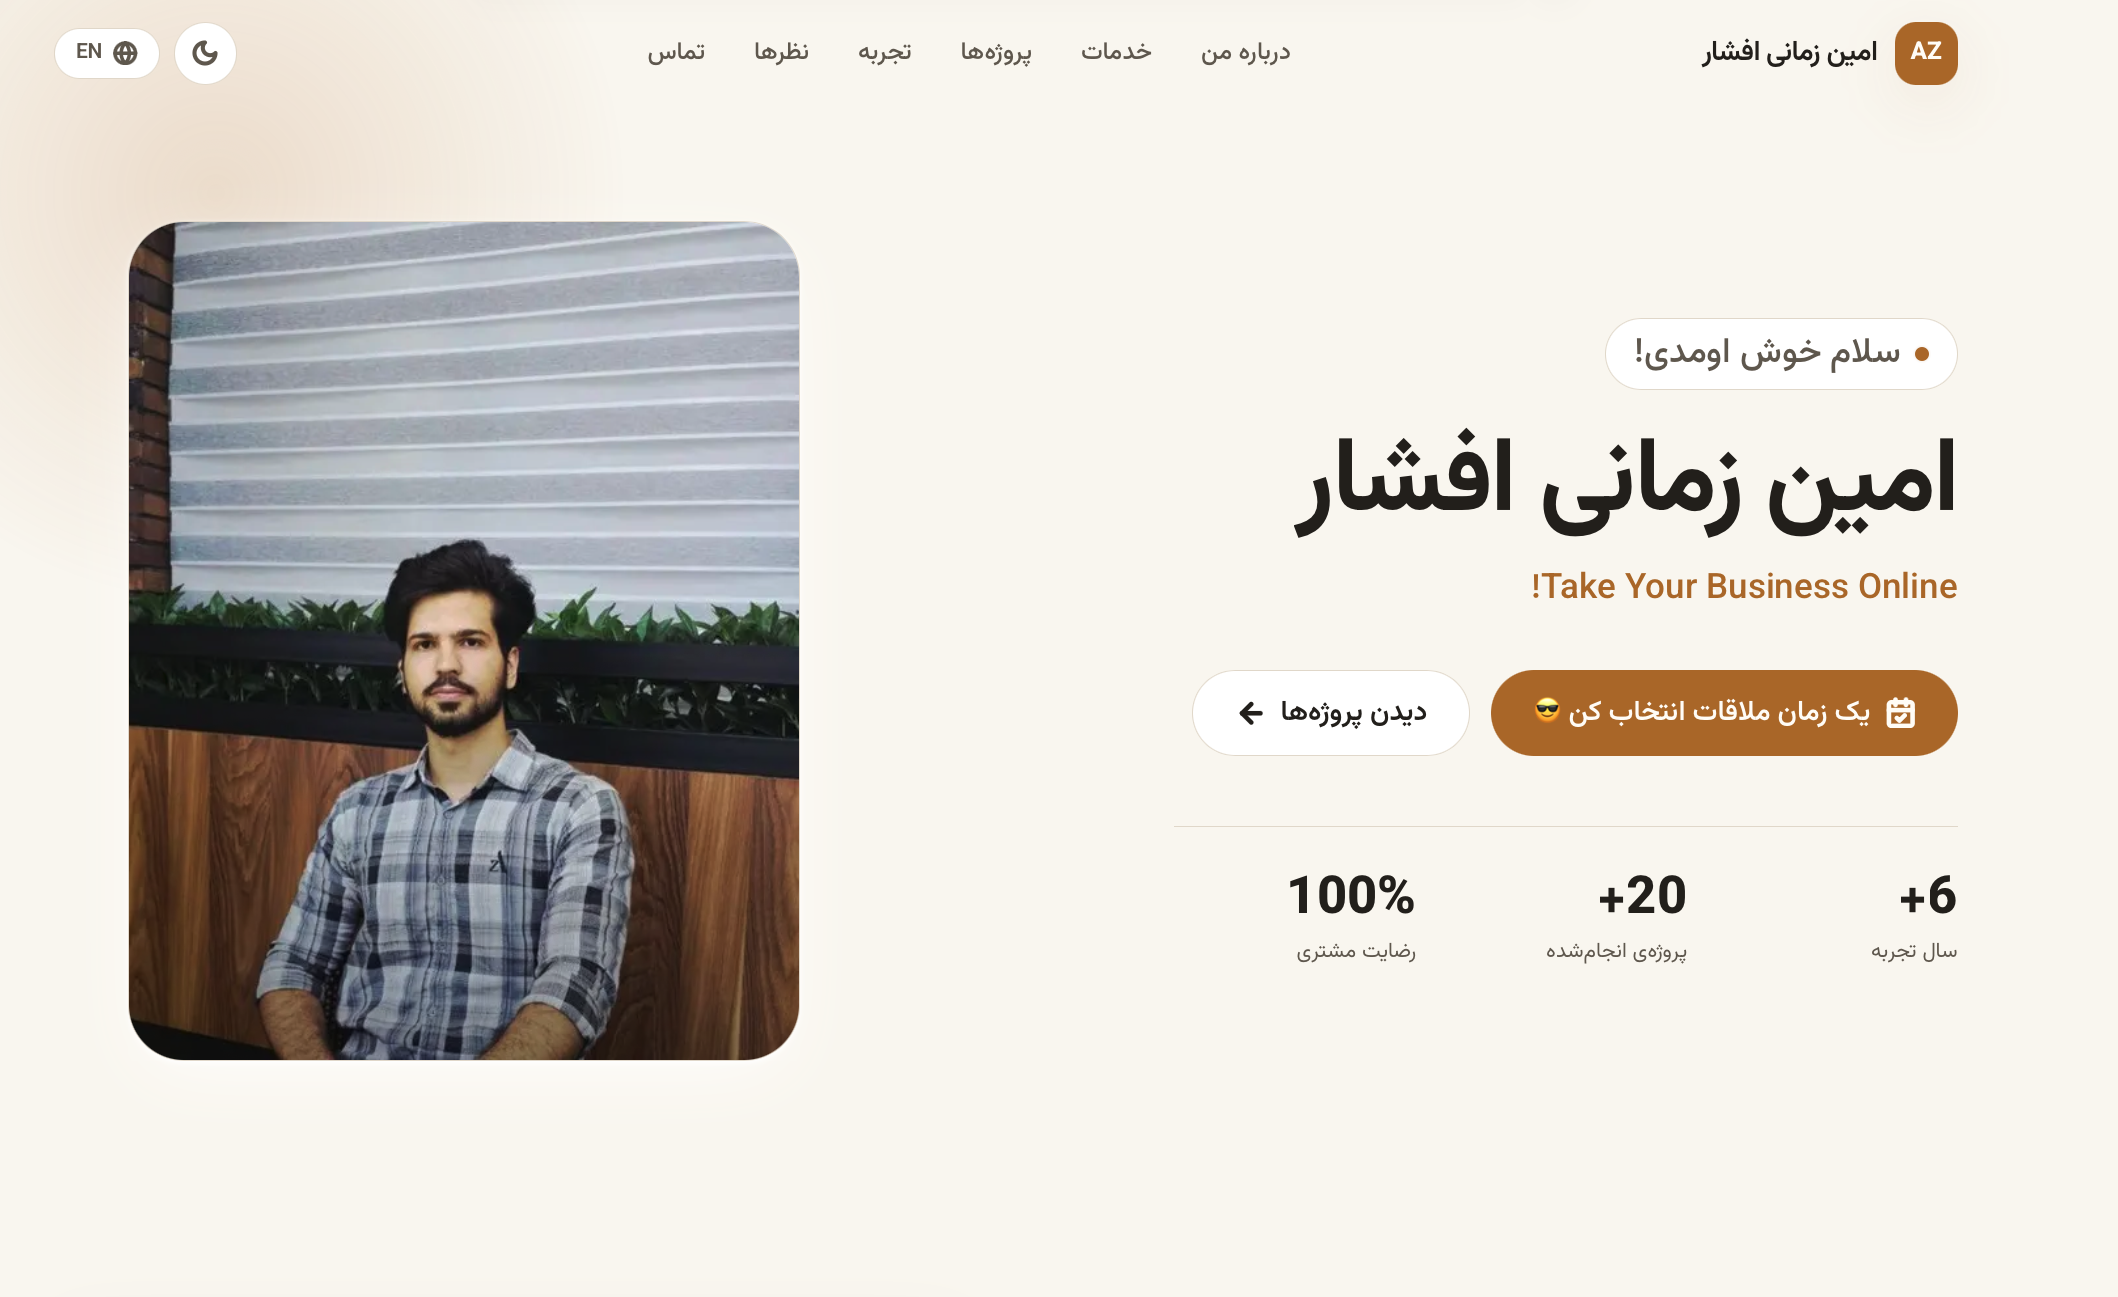
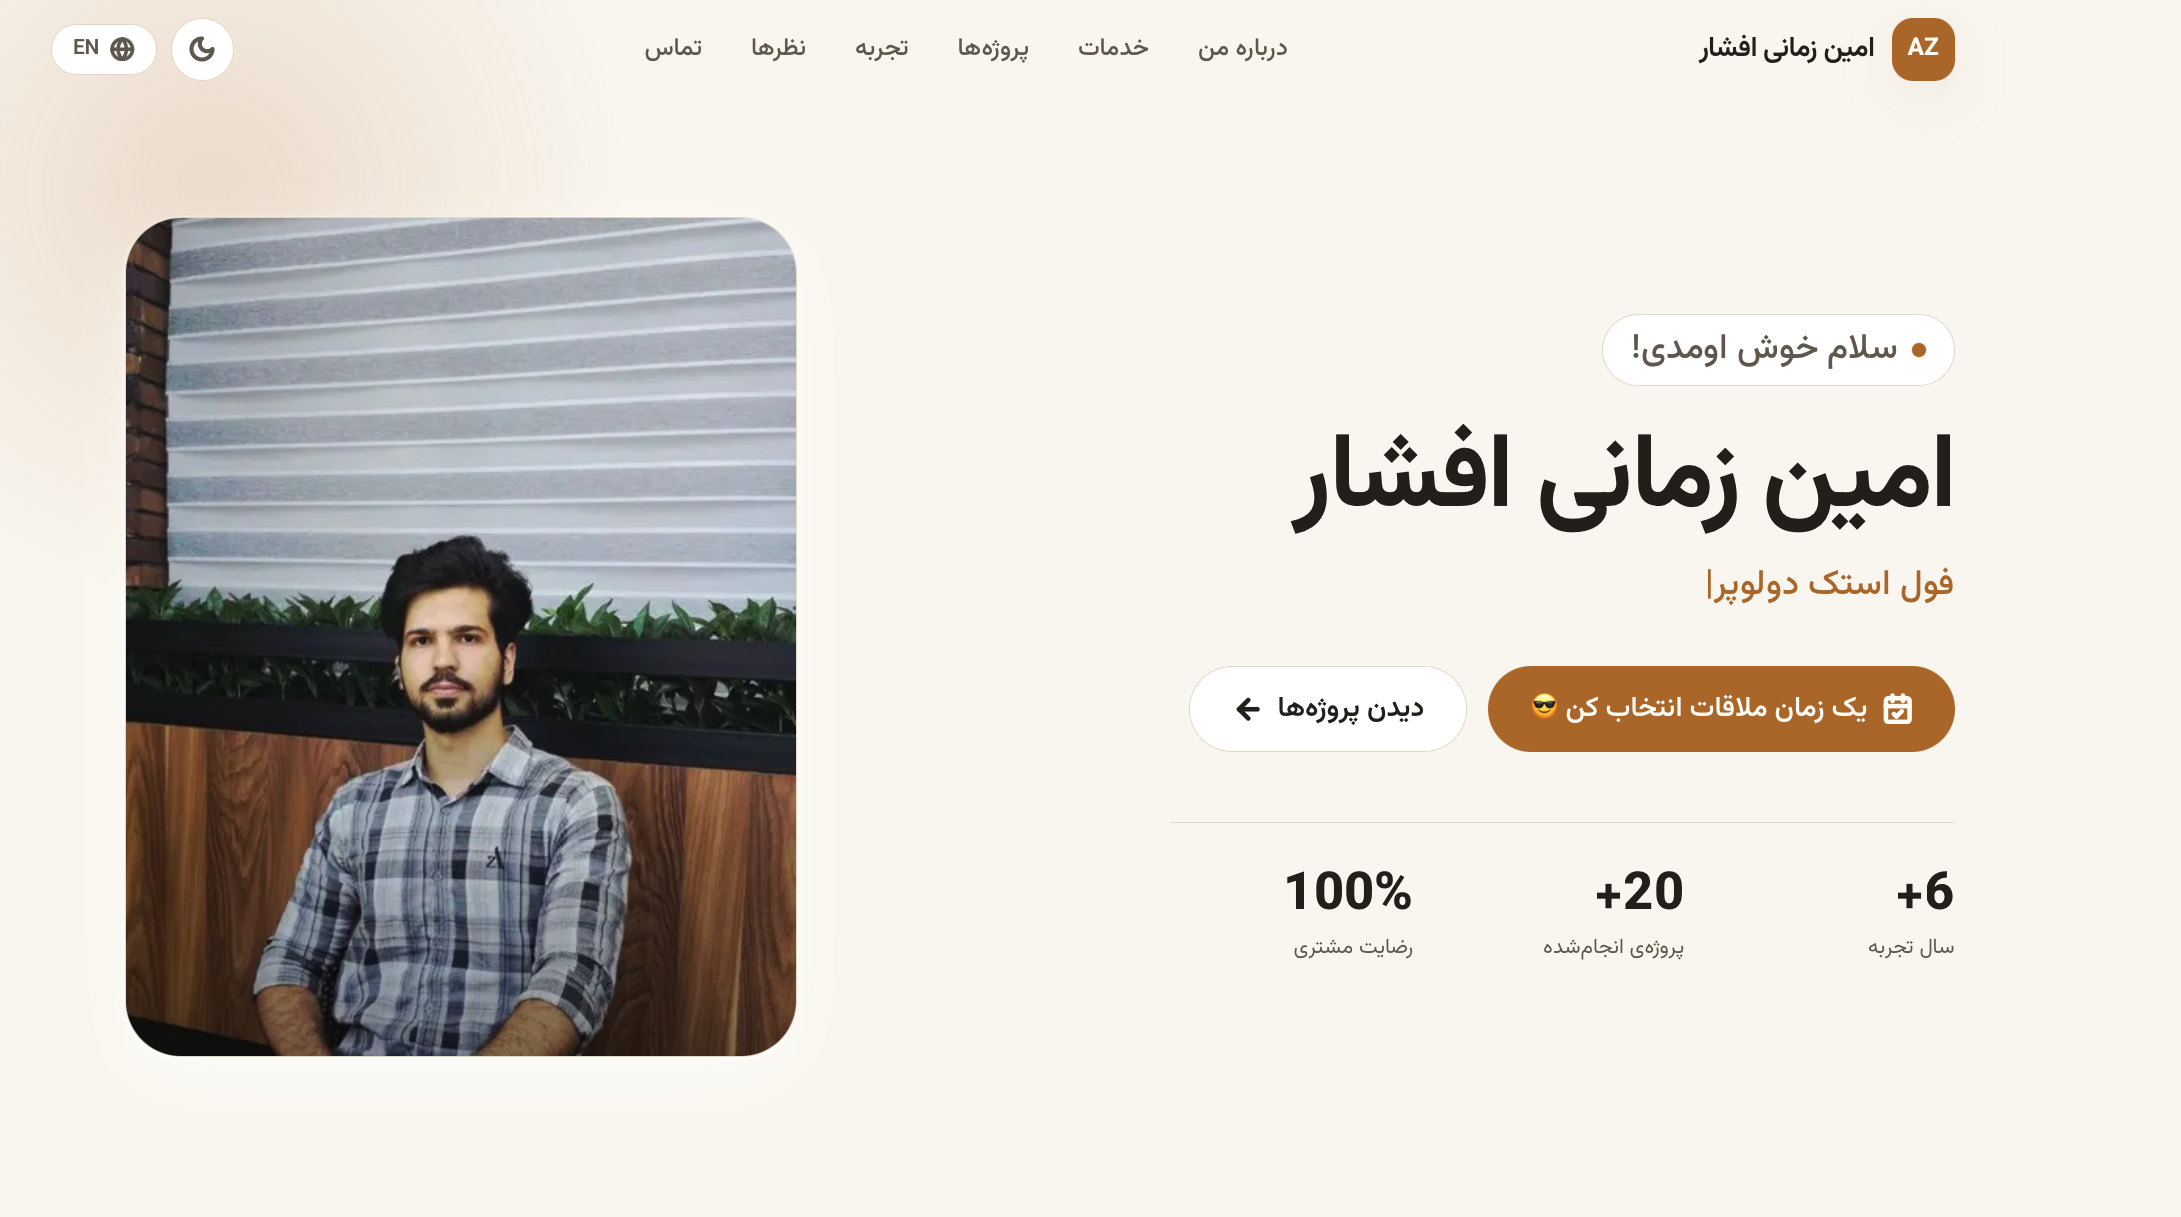
improve seo

diff --git a/src/app/sitemap.ts b/src/app/sitemap.ts
@@ -1,0 +1,86 @@
+// app/sitemap.ts
+// Next.js App Router — MetadataRoute.Sitemap
+// Generates a sitemap for both English and Persian locales.
+// Google uses this to discover all your pages and their language alternates.
+
+import { MetadataRoute } from "next";
+
+// ─── CONFIG ──────────────────────────────────────────────────────────────────
+const BASE_URL = "https://devwithamin.ir"; // ← change to your domain
+const LOCALES = ["en", "fa"] as const;
+
+// List every route in your app here (the path after the locale segment).
+// e.g. if you have /en/about and /fa/about, add "about" below.
+const ROUTES = [
+  "",          // home  → /en  and  /fa
+  "about",
+  "projects",
+  "blog",
+  "contact",
+  // add more as needed
+];
+
+// Optional: give individual pages custom priorities / change frequencies
+const ROUTE_META: Record<string, { priority: number; changeFrequency: MetadataRoute.Sitemap[number]["changeFrequency"] }> = {
+  "":         { priority: 1.0,  changeFrequency: "monthly" },
+  about:      { priority: 0.8,  changeFrequency: "monthly" },
+  projects:   { priority: 0.9,  changeFrequency: "weekly"  },
+  blog:       { priority: 0.7,  changeFrequency: "weekly"  },
+  contact:    { priority: 0.6,  changeFrequency: "yearly"  },
+};
+// ─────────────────────────────────────────────────────────────────────────────
+
+export default function sitemap(): MetadataRoute.Sitemap {
+  const entries: MetadataRoute.Sitemap = [];
+
+  for (const route of ROUTES) {
+    const meta = ROUTE_META[route] ?? { priority: 0.5, changeFrequency: "monthly" };
+
+    // Build alternates (hreflang) for this route across all locales
+    const alternates: Record<string, string> = {};
+    for (const locale of LOCALES) {
+      const path = route ? `/${locale}/${route}` : `/${locale}`;
+      alternates[locale] = `${BASE_URL}${path}`;
+    }
+    // x-default points to the English version (change if preferred)
+    alternates["x-default"] = alternates["en"];
+
+    // Add one entry per locale (Google wants one <url> per locale URL)
+    for (const locale of LOCALES) {
+      const path = route ? `/${locale}/${route}` : `/${locale}`;
+      entries.push({
+        url: `${BASE_URL}${path}`,
+        lastModified: new Date(),
+        changeFrequency: meta.changeFrequency,
+        priority: locale === "en" ? meta.priority : meta.priority - 0.05,
+        alternates: {
+          languages: alternates,
+        },
+      });
+    }
+  }
+
+  return entries;
+}
+
+// ─── DYNAMIC PAGES (e.g. blog posts) ─────────────────────────────────────────
+// If you have dynamic routes like /en/blog/[slug], create a separate
+// app/blog/sitemap.ts and fetch your slugs there:
+//
+// import { getAllPosts } from "@/lib/posts";
+// export default async function sitemap(): Promise<MetadataRoute.Sitemap> {
+//   const posts = await getAllPosts();
+//   return posts.flatMap((post) =>
+//     LOCALES.map((locale) => ({
+//       url: `${BASE_URL}/${locale}/blog/${post.slug}`,
+//       lastModified: post.updatedAt,
+//       changeFrequency: "weekly",
+//       priority: 0.7,
+//       alternates: {
+//         languages: Object.fromEntries(
+//           LOCALES.map((l) => [l, `${BASE_URL}/${l}/blog/${post.slug}`])
+//         ),
+//       },
+//     }))
+//   );
+// }

diff --git a/src/lib/seo.config.ts b/src/lib/seo.config.ts
@@ -1,0 +1,64 @@
+// lib/seo.config.ts
+// Central SEO configuration for your site.
+// Import from here wherever you need metadata — keeps things DRY.
+
+export const SITE = {
+  url: "https://devwithamin.ir",       // ← your domain
+  name: "Amin Zamani Afshar", // ← your name / site name
+  // twitterHandle: "@yourhandle",        // ← or remove if unused
+} as const;
+
+// ─── PER-LOCALE DEFAULTS ──────────────────────────────────────────────────────
+// These are fallback metadata values for each language.
+// Override them per-page in generateMetadata().
+
+export const DEFAULT_META = {
+  en: {
+    title: "Amin Zamani Afshar – Full-Stack Developer",
+    description: "Custom website design, mobile app development, scalable backend architecture, and Telegram bot solutions — all built around your business needs. I'm with you from idea to launch, every step of the way.",
+    keywords: [
+      "Flutter Developer",
+      "Web Developer",
+      "Portfolio",
+      "Next.js",
+      "React",
+      "Mobile App",
+      "Web Programmer",
+      "Website Designer",
+      "Custom Website Design",
+      "Mobile App Developer",
+      "Backend Developer",
+      "Telegram Bot Development",
+      "Full Stack Developer",
+      "Custom Software Development",
+      "Business Website Design",
+      "Business App Development",
+    ],
+  },
+  fa: {
+    title: "امین زمانی افشار – فول استک دولوپر",
+    description: "طراحی و توسعه وبسایت، اپلیکیشن موبایل، بکاندهای مقیاسپذیر و رباتهای تلگرام بر اساس نیاز کسبوکار شما. از ایده تا انتشار، قدمبهقدم کنار شما هستم.",
+    keywords: [
+      "توسعهدهنده فلاتر",
+      "توسعهدهنده وب",
+      "پورتفولیو",
+      "نکست جی اس",
+      "ریاکت",
+      "اپلیکیشن موبایل",
+      "برنامه نویس وب",
+      "طراح سایت",
+      "طراحی سایت اختصاصی",
+      "برنامه نویس موبایل",
+      "توسعه دهنده بک اند",
+      "ساخت ربات تلگرام",
+      "برنامه نویس فول استک",
+      "توسعه نرم افزار اختصاصی",
+      "طراحی سایت برای کسب و کارها",
+      "ساخت اپلیکیشن برای کسب و کارها",
+    ],
+  },
+} as const;
+
+export type Locale = keyof typeof DEFAULT_META;
+export const LOCALES: Locale[] = ["en", "fa"];
+export const DEFAULT_LOCALE: Locale = "en";

diff --git a/src/app/robots.ts b/src/app/robots.ts
@@ -1,0 +1,35 @@
+// app/robots.ts
+// Next.js App Router — MetadataRoute.Robots
+// This file is automatically served at /robots.txt
+
+import { MetadataRoute } from "next";
+
+const BASE_URL = "https://devwithamin.ir"; // ← change to your domain
+
+export default function robots(): MetadataRoute.Robots {
+  return {
+    rules: [
+      {
+        // Allow all crawlers full access
+        userAgent: "*",
+        allow: "/",
+        // Block any private routes you don't want indexed
+        disallow: [
+          "/api/",       // API routes — never index these
+          "/admin/",     // admin panel if you have one
+          "/_next/",     // Next.js internals
+          "/private/",   // any private pages
+        ],
+      },
+      {
+        // Specifically allow Googlebot (redundant but explicit)
+        userAgent: "Googlebot",
+        allow: "/",
+      },
+    ],
+    // Point to your sitemap
+    sitemap: `${BASE_URL}/sitemap.xml`,
+    // Optional: if you have a host canonical
+    // host: BASE_URL,
+  };
+}

diff --git a/src/app/layout.tsx b/src/app/layout.tsx
@@ -10,7 +10,15 @@ export const metadata: Metadata = {
     title: 'Amin Zamani Afshar | Software Engineer',
     description:
       'Websites that convert, backends you can trust, and Telegram bots that automate the busywork.',
-    type: 'website'
+    type: 'website',
+    images: [
+      {
+        url: '/og-image.png',      // Next.js resolves this against metadataBase
+        width: 1200,
+        height: 630,
+        alt: 'Amin Zamani Afshar – Full-Stack Developer',
+      },
+    ],
   }
 };
 
